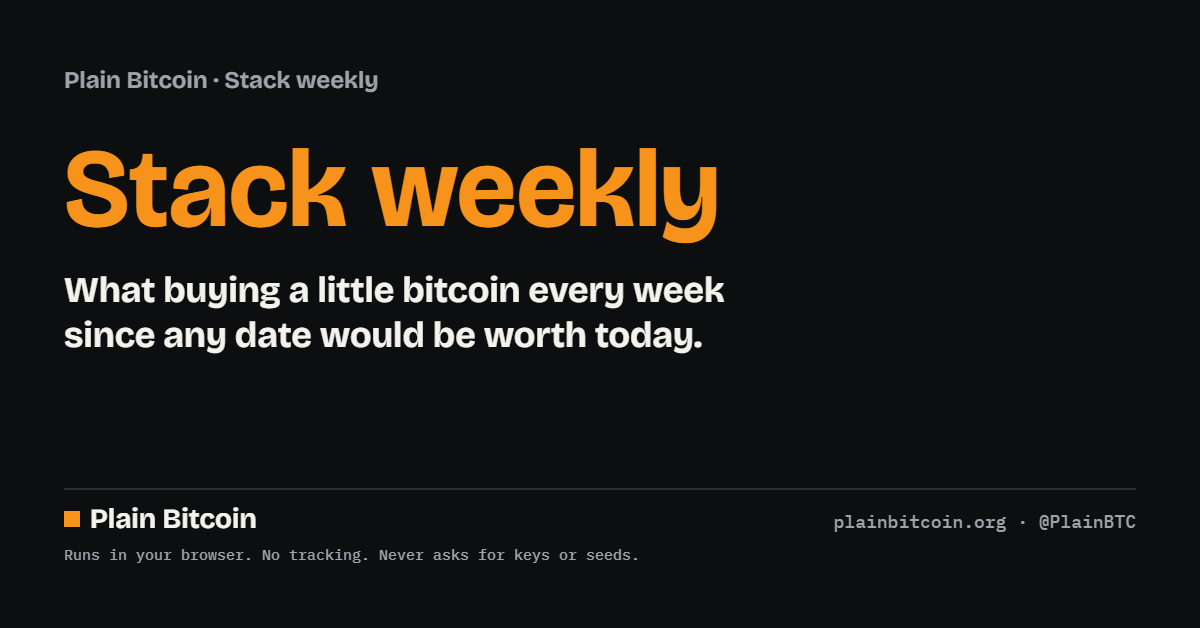
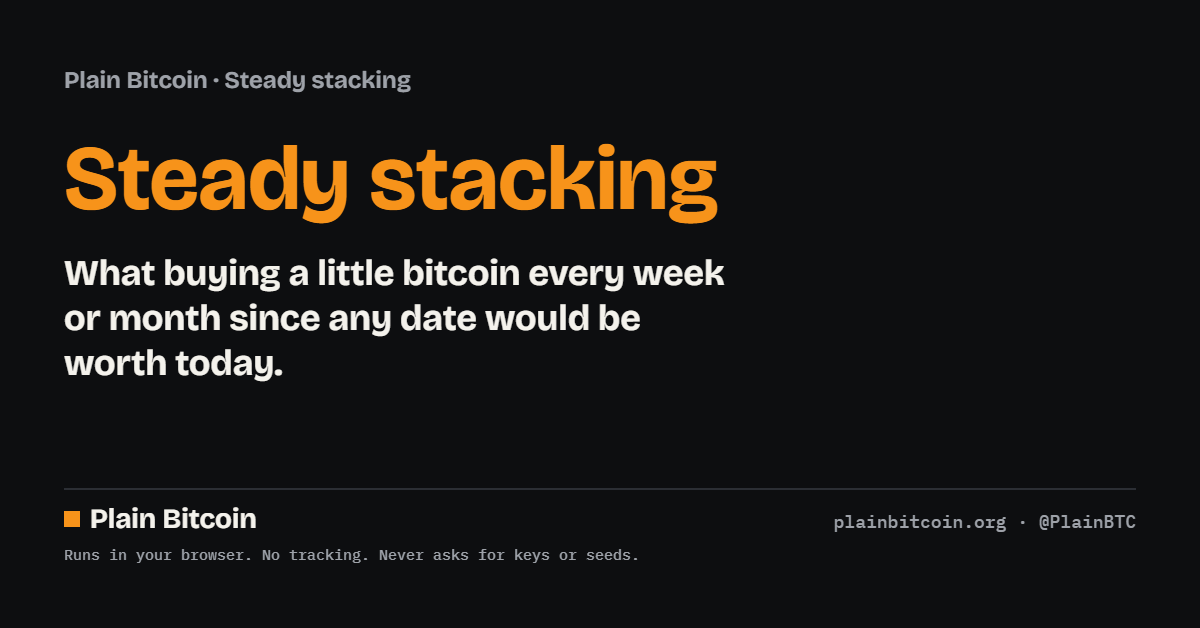
feat(client): rename Stack weekly to Steady stacking
How often sits beside the amount, the fee is optional, and the lump-sum line waits for its own switch so the plan reads first.

Changed region(s): [[0.0308, 0.3933, 0.6167, 0.6051], [0.0308, 0.2118, 0.6167, 0.3933], [0.2158, 0.0908, 0.3392, 0.1513]]

diff --git a/src/ui/dca-view.ts b/src/ui/dca-view.ts
@@ -1,7 +1,7 @@
 import type { Frequency } from '../model/dca.ts';
 import type { Month } from '../util/month.ts';
 import { DCA, FIELDS, POWER } from './copy.ts';
-import { amountField, CURRENCY_CHOICES, monthField, segmentedControl } from './fields.ts';
+import { amountField, CURRENCY_CHOICES, monthField, segmentedControl, selectField } from './fields.ts';
 import { html, type SafeHtml } from './html.ts';
 import { noteLine } from './output.ts';
 
@@ -15,11 +15,19 @@ export const DCA_ROWS = ['invested', 'bought', 'worth', 'average', 'buys', 'fall
 
 const SENTENCE_ROWS: ReadonlySet<string> = new Set(['buys', 'fall', 'lump']);
 
-/** The amount, the money and when the buying started: the start decides the answer more than anything else. */
+/** The plan in the order it is told: how much, how often, since when. The start decides the answer most. */
 export function renderDcaInputs(min: Month, max: Month): SafeHtml {
     return html`<div class="field-row">
     ${amountField({ id: 'dca-amount', label: FIELDS.eachBuy, decimals: 2, placeholder: FIELDS.examples.dca, value: '50' })}
-    ${segmentedControl({ name: 'dca-currency', legend: FIELDS.currency, choices: CURRENCY_CHOICES, selected: 'USD' })}
+    ${selectField({
+        id: 'dca-often',
+        label: FIELDS.howOften,
+        selected: 'weekly',
+        choices: (Object.keys(DCA.frequencies) as Frequency[]).map((value) => ({
+            value,
+            label: DCA.frequencies[value],
+        })),
+    })}
 </div>
 ${monthField({ id: 'dca-start', legend: FIELDS.starting, min, max, value: DCA_DEFAULT_START })}`;
 }
@@ -33,24 +41,21 @@ export function renderDcaMore(): SafeHtml {
     <legend class="visually-hidden">${DCA.presetsLabel}</legend>
     <div class="presets__list">${presets}</div>
 </fieldset>
-${segmentedControl({
-    name: 'dca-often',
-    legend: FIELDS.howOften,
-    selected: 'weekly',
-    choices: (Object.keys(DCA.frequencies) as Frequency[]).map((value) => ({
-        value,
-        label: DCA.frequencies[value],
-    })),
-})}
+${segmentedControl({ name: 'dca-currency', legend: FIELDS.currency, choices: CURRENCY_CHOICES, selected: 'USD' })}
 ${amountField({ id: 'dca-fee', label: DCA.fee, decimals: 2, placeholder: '0' })}`;
 }
 
-/** The chart's key, in words a first-time reader can follow, with the same strokes the lines use. */
+/**
+ * The chart's key, in words a first-time reader can follow, with the same strokes the lines use. One lump sum is a
+ * comparison, not the plan, so its line waits for the switch.
+ */
 export function renderDcaKey(): SafeHtml {
     const items = (['value', 'invested', 'lump'] as const).map(
-        (key) => html`<li class="picture__key-item picture__key-item--${key}">${DCA.key[key]}</li>`,
+        (key) =>
+            html`<li class="picture__key-item picture__key-item--${key}"${key === 'lump' ? html` hidden` : ''}>${DCA.key[key]}</li>`,
     );
-    return html`<ul class="picture__key">${items}</ul>`;
+    return html`<ul class="picture__key">${items}</ul>
+<label class="key-toggle"><input id="dca-compare" class="key-toggle__input" type="checkbox" /><span>${DCA.compareLump}</span></label>`;
 }
 
 export function renderDcaDetail(): SafeHtml {

diff --git a/e2e/dca.spec.ts b/e2e/dca.spec.ts
@@ -19,10 +19,10 @@ async function openDca(page: Page) {
 
 const money = /\$[\d,]+/.source;
 
-test('answers $50 a week since January 2020 from bundled closes only, with the lump sum', async ({ page }) => {
+test('answers $50 a week since January 2020 from bundled closes only, the lump sum in the table', async ({ page }) => {
     const { problems, external } = await openDca(page);
     await expect(page.locator('#tool-result')).toHaveText(
-        new RegExp(`^\\$50 a week since Jan 2020 is worth ${money} today \\(one lump sum: ${money}\\)\\.$`),
+        new RegExp(`^\\$50 a week since Jan 2020 is worth ${money} today\\.$`),
     );
     await expect(page.locator('#tool-result-detail')).toHaveText(
         new RegExp(`^${money} put in over [\\d,]+ buys, buying [\\d.]+ BTC\\.$`),
@@ -33,7 +33,12 @@ test('answers $50 a week since January 2020 from bundled closes only, with the l
         new RegExp(`^Worth ${money} today: [\\d.]+ BTC bought on 1 Jan 2020$`),
     );
     await expect(page.locator('#dca-notes')).toContainText(DCA.feesNone);
+    await expect(page.locator('#picture-plot .dca-chart__line--lump')).toHaveAttribute('points', '');
+    await expect(page.locator('.picture__key-item--lump')).toBeHidden();
+    await page.locator('#dca-compare').check();
     await expect(page.locator('#picture-plot .dca-chart__line--lump')).toHaveAttribute('points', /^[\d.]+,[\d.]+ /);
+    await expect(page.locator('.picture__key-item--lump')).toBeVisible();
+    await expect(page.locator('#picture-plot .dca-chart')).toHaveAttribute('aria-label', /One lump sum ends worth/);
     await expect(page.locator('#picture-plot .dca-chart')).toHaveAttribute('aria-label', /^Line chart\./);
     await expect(page.locator('#picture-plot .g-end')).toHaveText(
         (await page.locator('#tool-result-figure').textContent()) ?? '',
@@ -50,7 +55,7 @@ test('presets, cadence and currency recompute, and the start month is kept', asy
     await expect(page.locator('[data-preset="fiveYears"]')).toHaveAttribute('aria-pressed', 'true');
     const month = await page.locator('#dca-start-month').inputValue();
     const year = await page.locator('#dca-start-year').inputValue();
-    await page.locator('label', { hasText: DCA.frequencies.monthly }).click();
+    await page.locator('#dca-often').selectOption('monthly');
     await expect(page.locator('#tool-result')).toHaveText(/^\$50 a month since /);
     await expect(page.locator('#dca-buys')).toHaveText(/^6[01] buys, /);
     await page.locator('label', { hasText: '£ GBP' }).click();

diff --git a/src/tools/dca/index.ts b/src/tools/dca/index.ts
@@ -50,6 +50,8 @@ export function mountDca(root: HTMLElement, siteUrl: string): () => void {
     const source = find(root, '#tool-source');
     const panel = find(root, '#dca-detail');
     const notes = find(root, '#dca-notes');
+    const lumpToggle = find<HTMLInputElement>(root, '#dca-compare');
+    const lumpKey = find(root, '.picture__key-item--lump');
 
     const picture = mountPicture(root);
     const site = siteAddress(siteUrl);
@@ -68,10 +70,10 @@ export function mountDca(root: HTMLElement, siteUrl: string): () => void {
     });
 
     const currency = (): Fiat =>
-        form.querySelector<HTMLInputElement>('input[name="dca-currency"]:checked')?.value === 'GBP' ? 'GBP' : 'USD';
+        root.querySelector<HTMLInputElement>('input[name="dca-currency"]:checked')?.value === 'GBP' ? 'GBP' : 'USD';
 
     const frequency = (): Frequency => {
-        const value = root.querySelector<HTMLInputElement>('input[name="dca-often"]:checked')?.value;
+        const value = root.querySelector<HTMLSelectElement>('#dca-often')?.value;
         return FREQUENCIES.find((option) => option === value) ?? 'weekly';
     };
 
@@ -173,7 +175,10 @@ export function mountDca(root: HTMLElement, siteUrl: string): () => void {
             showMessage(DCA.tooBig);
             return;
         }
-        const marks = dcaMarks(outcome.result);
+        const lumpOn = lumpToggle.checked;
+        lumpKey.hidden = !lumpOn;
+        const full = dcaMarks(outcome.result);
+        const marks = lumpOn ? full : { ...full, lump: [] };
         text = dcaText(outcome.result, fiat, marks);
         label.textContent = `${TOOL_PAGE.resultLabel} · ${text.asOf}`;
         figure.textContent = text.headline;
@@ -220,11 +225,12 @@ export function mountDca(root: HTMLElement, siteUrl: string): () => void {
             });
     }
 
-    // How often, the start presets and the fee sit in a second form below the answer; both feed the same answer.
+    // The start presets and the fee sit in a second form below the answer; both forms feed the same answer.
     for (const inputs of [form, find<HTMLFormElement>(root, '.tool__more')]) {
         inputs.addEventListener('input', update);
         inputs.addEventListener('change', update);
     }
+    lumpToggle.addEventListener('change', update);
     for (const button of presetButtons) {
         button.addEventListener('click', () => {
             const series = loaded.get(currency());

diff --git a/src/postcard/render.ts b/src/postcard/render.ts
@@ -124,11 +124,12 @@ function drawCells(context: Context, box: Box, sats: number): void {
 }
 
 function drawLines(context: Context, box: Box, signature: Extract<Signature, { kind: 'lines' }>): void {
+    const lumped = signature.lump.length > 0;
     const length = Math.min(
         signature.t.length,
         signature.value.length,
         signature.invested.length,
-        signature.lump.length,
+        lumped ? signature.lump.length : Number.POSITIVE_INFINITY,
     );
     if (length < 2) return;
     const t0 = signature.t[0] ?? 0;
@@ -142,10 +143,10 @@ function drawLines(context: Context, box: Box, signature: Extract<Signature, { k
     const y = (value: number) => base - (Math.max(0, value) / max) * (base - top);
     const step = Math.max(1, Math.floor(length / 400));
     const series: [readonly number[], string, number, number[]][] = [
-        [signature.lump, TOKENS.inkCool, 3, [10, 8]],
         [signature.invested, TOKENS.ink, 2.5, []],
         [signature.value, TOKENS.btc, 5, []],
     ];
+    if (lumped) series.unshift([signature.lump, TOKENS.inkCool, 3, [10, 8]]);
     context.lineJoin = 'round';
     for (const [values, colour, width, dash] of series) {
         context.strokeStyle = colour;
@@ -169,11 +170,12 @@ function drawLines(context: Context, box: Box, signature: Extract<Signature, { k
     context.arc(x(signature.t[length - 1] ?? t1), y(signature.value[length - 1] ?? 0), 7, 0, Math.PI * 2);
     context.fill();
     let keyX = box.x;
-    for (const [key, colour] of [
+    const keys = [
         ['value', TOKENS.btc],
         ['invested', TOKENS.ink],
         ['lump', TOKENS.inkCool],
-    ] as const) {
+    ] as const;
+    for (const [key, colour] of lumped ? keys : keys.slice(0, 2)) {
         small(context, DCA.cardKey[key], keyX, box.y + 14, colour);
         keyX += context.measureText(DCA.cardKey[key]).width + 28;
     }

diff --git a/src/ui/info.ts b/src/ui/info.ts
@@ -1,0 +1,22 @@
+import { isToolId } from '../tools/index.ts';
+import { TOOLS } from './copy.ts';
+import { INFO, PRIVATE } from './copy-info.ts';
+
+/** Fills each How this works panel on the page: its lines, then what stays private on this tool. */
+export function fillInfo(root: ParentNode): void {
+    for (const body of root.querySelectorAll<HTMLElement>('[data-info]')) {
+        const id = body.dataset.info ?? '';
+        if (!isToolId(id) || body.childElementCount > 0) continue;
+        const list = document.createElement('ul');
+        list.className = 'info__list';
+        for (const point of INFO[id]) {
+            const item = document.createElement('li');
+            item.textContent = point;
+            list.append(item);
+        }
+        const privacy = document.createElement('p');
+        privacy.className = 'info__private';
+        privacy.textContent = `${PRIVATE} ${TOOLS[id].privacy}`;
+        body.replaceChildren(list, privacy);
+    }
+}

diff --git a/src/styles/tool-page.css b/src/styles/tool-page.css
@@ -114,6 +114,10 @@
     gap: 0.4375rem;
 }
 
+.picture__key-item[hidden] {
+    display: none;
+}
+
 .picture__key-item::before {
     content: "";
     width: 1.125rem;
@@ -260,4 +264,22 @@
     .picture__caption {
         font-size: var(--step-small);
     }
+}
+
+.key-toggle {
+    display: inline-flex;
+    align-items: center;
+    gap: 0.5rem;
+    min-height: var(--tap);
+    color: var(--ink-dim);
+    font-size: var(--step-tiny);
+    font-weight: 600;
+    cursor: pointer;
+}
+
+.key-toggle__input {
+    width: 1.125rem;
+    height: 1.125rem;
+    margin: 0;
+    accent-color: var(--btc);
 }

diff --git a/src/ui/fields.ts b/src/ui/fields.ts
@@ -46,6 +46,18 @@ export function segmentedControl(options: {
 </fieldset>`;
 }
 
+export function selectField(options: {
+    id: string;
+    label: string;
+    choices: readonly Choice[];
+    selected: string;
+}): SafeHtml {
+    return html`<div class="field">
+    <label class="field__label" for="${options.id}">${options.label}</label>
+    ${selectControl(options.id, options.choices, options.selected)}
+</div>`;
+}
+
 function selectControl(id: string, choices: readonly Choice[], selected: string, extra: SafeHtml | '' = ''): SafeHtml {
     const items = choices.map(
         (choice) =>

diff --git a/README.md b/README.md
@@ -4,7 +4,7 @@ Plain Bitcoin is a set of small Bitcoin machines that run on the real chain, rig
 
 ## Bitcoin right now
 
-The home page opens with five live numbers, each a link into the machine it comes from: the newest block and how long ago it was found, the price, what a usual payment costs to send in the next block, the blocks to the next halving and the bitcoin still to be mined. A sixth cell is your own stack, if you chose to keep it on this device, with how far it moved since your last visit. Share today's card prints the strip as one postcard, from live readings only. Below the strip every machine has a tile.
+The home page opens with five live numbers, each a link into the machine it comes from: the newest block and how long ago it was found, the price, what a usual payment costs to send in the next block, the blocks to the next halving and the bitcoin still to be mined. A sixth cell is your own stack, if you chose to keep it on this device, with how far it moved since your last visit. Share today's card prints the strip as one postcard, from live readings only. Below the strip every machine has a tile, in two groups: Right now (what the chain is doing) and Your bitcoin. The Machines button in the top bar opens the same two groups from any page.
 
 ## The machines
 
@@ -17,11 +17,11 @@ The home page opens with five live numbers, each a link into the machine it come
 | Send now?            | What a payment costs to send right now, for every wait, in sats and dollars | `/fees`    |
 | Inflation melt       | What old dollars or pounds buy today, next to the same money in bitcoin     | `/power`   |
 | Sats converter       | Sats, bitcoin, dollars, euros and pounds, both ways                         | `/convert` |
-| Stack weekly         | What buying a little every week since a date would be worth today           | `/dca`     |
+| Steady stacking      | What buying a little every week or month since a date would be worth today  | `/dca`     |
 | My stack             | What the bitcoin you hold is worth now, and since your last visit           | `/stack`   |
 | Address check        | What kind of address it is, whether it is typed right, and its balance      | `/address` |
 
-The machines you play with are drawn in 3D from real data: the miner's well fills with your own hashes, the 21M block is lit up to the coins issued so far, the halving rings count down, the waiting line shows the next blocks and the ones just mined, and the converter rolls its drums as you type. The machines you read have a large flat chart instead: what each wait costs, cash next to bitcoin, the plan's worth day by day, the address in cells. Every page has its plain name, the inputs, a big answer that updates as you type, and its source and as-of time. Old `#/` links still open their page.
+The machines you play with are drawn in 3D from real data: the miner's well fills with your own hashes, the 21M block is lit up to the coins issued so far, the halving rings count down, the waiting line shows the next blocks and the ones just mined, and the converter rolls its drums as you type. The machines you read have a large flat chart instead: what each wait costs, cash next to bitcoin, the plan's worth day by day, the address in cells. Every page has its plain name, the inputs, a big answer that updates as you type, a short How this works panel that also says what stays private, and its source and as-of time. Old `#/` links still open their page.
 
 One static site. No backend, no accounts, no cookies. The one thing it can keep is My stack, in this browser's local storage, and only after you tap Keep on this device. The site never asks for keys, seeds or signatures.
 
@@ -47,7 +47,7 @@ Postcards are drawn in your browser on a canvas with the site's own fonts. Nothi
 | One transaction                | Only when you tap Follow or Pick a live one                                                                                                                                                                         | mempool.space                                  |
 | One address balance            | Only when you tap Look up on the address page, after a note that names the service                                                                                                                                  | mempool.space                                  |
 
-The status line shares the height and price requests with the page; there is one of each, never two. On Inflation melt, Stack weekly and Address check it fetches nothing: it shows the last value from this visit with its time, or the estimated height and the bundled last close, labelled as such. Nothing else is sent. Inflation melt and Stack weekly work from bundled files and make no requests. Nothing you type is logged or put in the URL, and nothing is stored except the amount on My stack after you tap Keep on this device: it stays in local storage in this browser, is never sent, and Forget it removes it. No analytics, trackers, third-party scripts, fonts or CDNs. The Content Security Policy allows connections to exactly those three origins.
+The status line shares the height and price requests with the page; there is one of each, never two. On Inflation melt, Steady stacking and Address check it fetches nothing: it shows the last value from this visit with its time, or the estimated height and the bundled last close, labelled as such. Nothing else is sent. Inflation melt and Steady stacking work from bundled files and make no requests. Nothing you type is logged or put in the URL, and nothing is stored except the amount on My stack after you tap Keep on this device: it stays in local storage in this browser, is never sent, and Forget it removes it. No analytics, trackers, third-party scripts, fonts or CDNs. The Content Security Policy allows connections to exactly those three origins.
 
 If a seed phrase, private key (WIF), extended private key or a descriptor holding one is pasted into the address field, the page clears the field at once and says why. It looks through numbering, labels, punctuation, other wordlists and invisible characters, and nothing about it is sent or kept. Extended public keys are refused too, because they reveal a whole wallet.
 
@@ -129,7 +129,7 @@ To check a build locally first: `VITE_SITE_URL=https://plainbitcoin.org npm run 
 
 Run these on real phones before each launch. The automated tests cover the same ground in emulators, but not the share sheet, real keypads or Safari's own behaviour.
 
-- **Portrait**: on every page the name, the first input and the answer are on the first screen at 360 px wide, with no sideways scroll; the chart on Stack weekly is fully visible.
+- **Portrait**: on every page the name, the first input and the answer are on the first screen at 360 px wide, with no sideways scroll; the chart on Steady stacking is fully visible.
 - **Keyboard up**: typing in a field keeps the answer visible above the keyboard.
 - **Landscape**: calculator on the left, picture on the right, nothing pinned.
 - **One-handed reach**: amount fields, presets, Share postcard, Paste and Look up are reachable with a thumb.
@@ -146,7 +146,6 @@ Run these on real phones before each launch. The automated tests cover the same 
 
 ```
 src/app      path router, with old #/ links redirected
-src/chain    a block hash as bits, for the barcode under the top bar
 src/hero     one canvas, one renderer, one scene per machine (the only code that may use WebGL or three.js)
 src/gauges   each tool's flat SVG picture, drawn from the same numbers as its answer
 src/postcard postcard words, layout, canvas renderer, share tray and share bar
